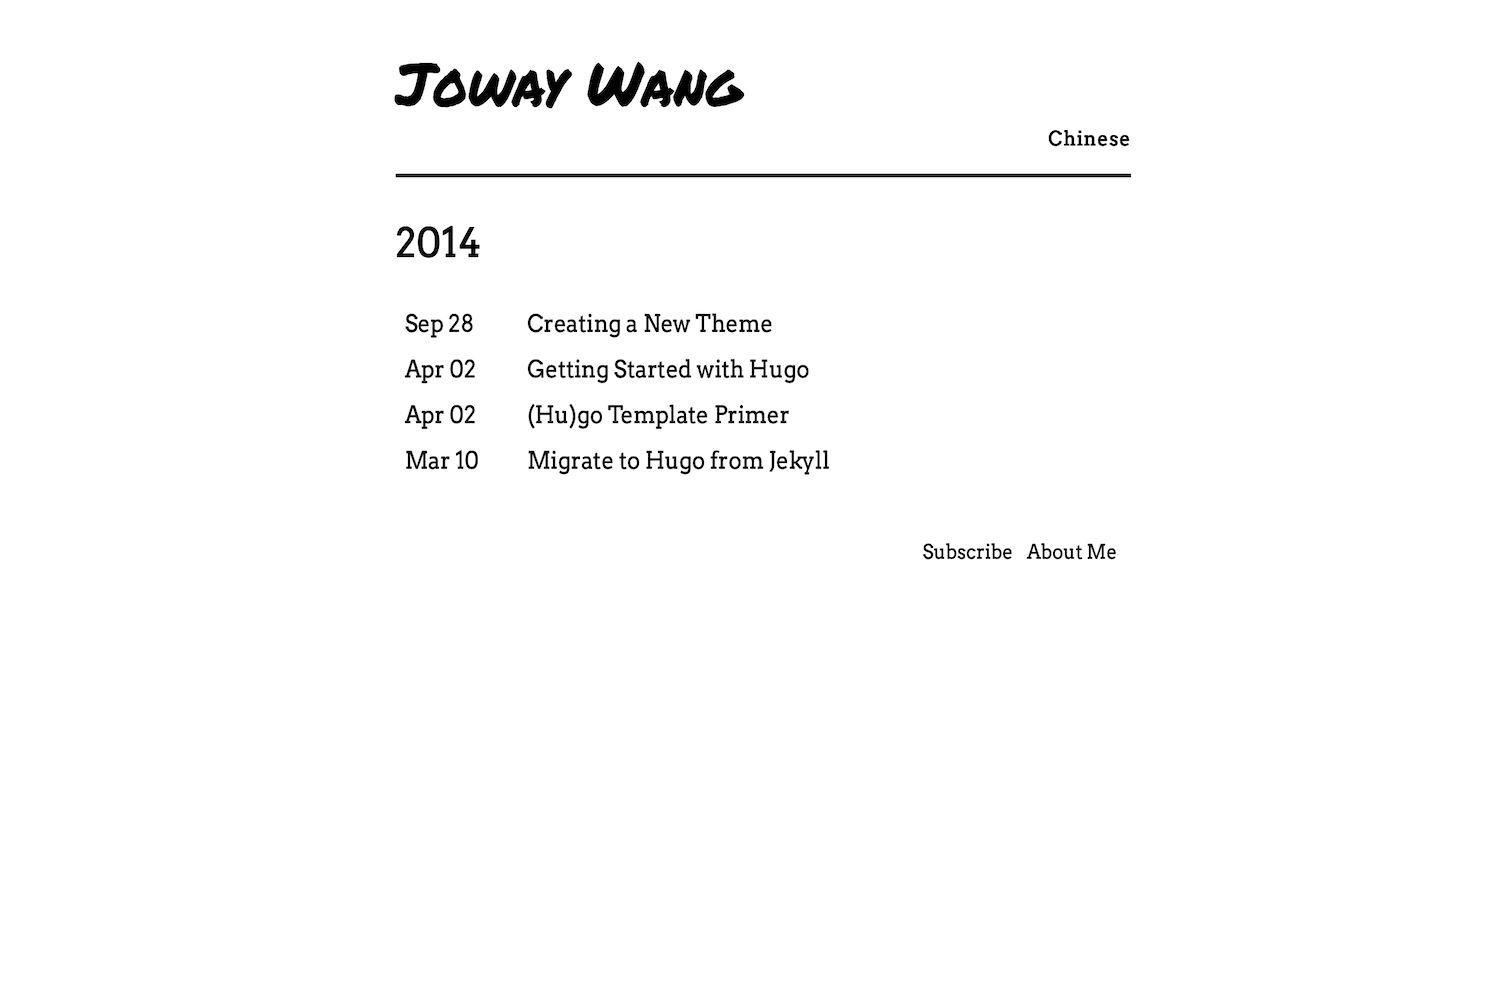
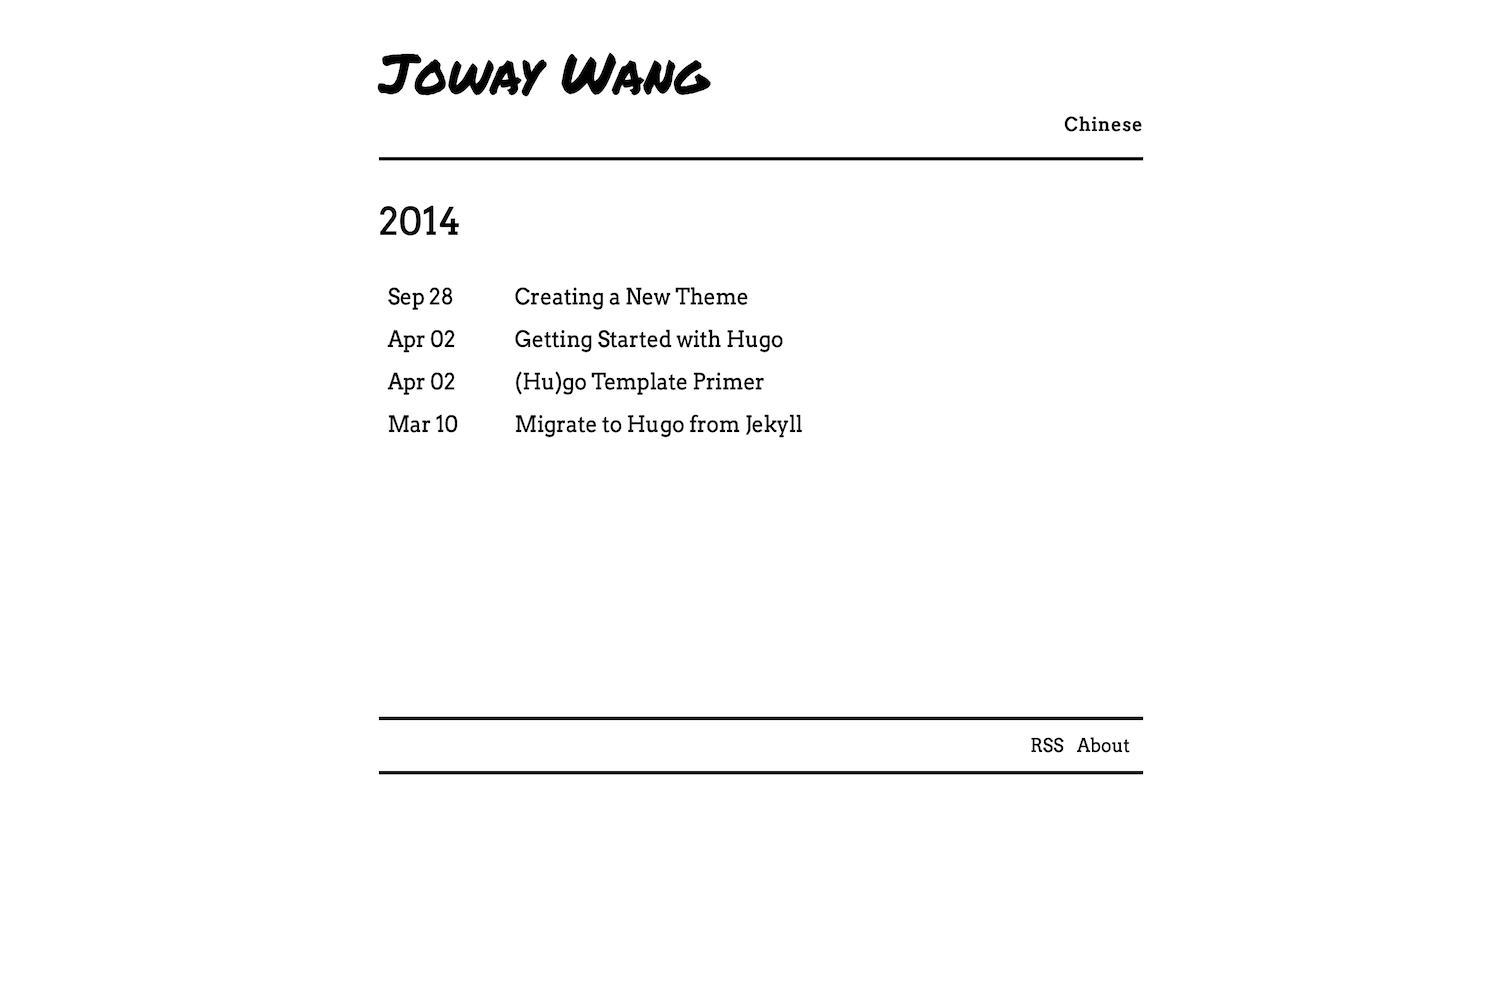
feat: hide author name when empty

diff --git a/layouts/_default/single.html b/layouts/_default/single.html
@@ -20,9 +20,11 @@
               {{ end }}
             </div>
             <div class="col-xs-6">
+              {{ if .Site.Author.name }}
               <div class="post-author">
                 <a target="_blank" href="{{ .Site.Author.homepage }}">@{{ .Site.Author.name }}</a>
               </div>
+              {{ end }}
             </div>
           </div>
         </header>
@@ -41,7 +43,7 @@
           {{ partial "disqus.html" . }}
         </div>
         {{ end }}
-        
+
         {{ partial "footer.html" . }}
       </div>
     </div>

diff --git a/layouts/partials/header.html b/layouts/partials/header.html
@@ -1,7 +1,7 @@
 {{ $curLanguageName := .Site.Language.LanguageName }}
 <header>
   <div class="signatures site-title">
-    <a href="{{ .Site.LanguagePrefix }}/">{{ .Site.Author.name }}</a>
+    <a href="{{ .Site.LanguagePrefix }}/">{{ or .Site.Params.headTitle .Site.Author.name }}</a>
   </div>
 </header>
 <div class="row end-xs">

diff --git a/README.md b/README.md
@@ -31,6 +31,15 @@ theme = "yinyang"
 
 ## Configuration
 
+### Head Title
+
+```
+[params]
+headTitle = "Joway Wang"
+```
+
+If there is no `headTitle` in params, use `.Site.Author.name`.
+
 ### Main section
 
 Set your main section:
@@ -84,7 +93,7 @@ theme = "yinyang"
 DefaultContentLanguage = "cn"
 
 [author]
-  name = "Joway Wang"
+  name = "Joway"
   homepage = "https://joway.io/"
 
 [languages]
@@ -98,10 +107,10 @@ DefaultContentLanguage = "cn"
     weight = 2
 
 [params]
-[params]
 mainSections = ["post"]
+headTitle = "Joway Wang"
 disqus = "joway" # disqus account name
-extraHead = '<script async src="https://www.googletagmanager.com/gtag/js?id=UA-53624533-8"></script><script src="https://joway.io/analytics.js"></script>'
+extraHead = '<script async src="https://www.googletagmanager.com/gtag/js?id=UA-xxx"></script>'
 [[params.socials]]
 name = "About Me"
 link = "https://joway.io"
